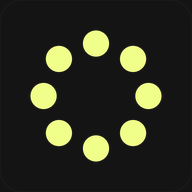
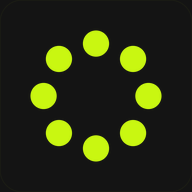
Primary colour #C9F711
Brand lime, logo, focus ring, accent text, launch error screen and app icons.

Claude-Session: https://claude.ai/code/session_01UHFjYRswX6nbSutuAFkTkP

diff --git a/index.html b/index.html
@@ -24,10 +24,10 @@
           var app = document.getElementById('app') || document.body;
           app.innerHTML =
             '<div style="position:absolute;inset:0;display:flex;flex-direction:column;justify-content:center;gap:16px;padding:24px;background:#141414;color:#d9d9d9;font:16px/24px system-ui,sans-serif">' +
-            '<strong style="font-size:22px;color:#f0ff8a">Nimble could not start</strong>' +
+            '<strong style="font-size:22px;color:#c9f711">Nimble could not start</strong>' +
             '<span>Close the app and open it again. If this keeps happening, send a screenshot of this screen.</span>' +
             '<pre style="margin:0;padding:12px;border-radius:12px;background:#202022;color:#8b8b8b;white-space:pre-wrap;font:13px/18px ui-monospace,Menlo,monospace"></pre>' +
-            '<button style="min-height:52px;border:0;border-radius:999px;background:#f0ff8a;color:#000;font-weight:800" onclick="location.reload()">Reload</button></div>';
+            '<button style="min-height:52px;border:0;border-radius:999px;background:#c9f711;color:#000;font-weight:800" onclick="location.reload()">Reload</button></div>';
           app.querySelector('pre').textContent = (first || 'The app did not start within 8 seconds.') + '\n' + navigator.userAgent;
         }, 8000);
       })();

diff --git a/src/design/tokens.css b/src/design/tokens.css
@@ -5,8 +5,8 @@
   --surface-control: #2a2a2d;
   --surface-card: #202022;
   --surface-raised: #353538;
-  --brand: #e6fc03;
-  --brand-yellow: #e6fc03;
+  --brand: #c9f711;
+  --brand-yellow: #c9f711;
   --brand-indigo: #442bee;
   --brand-beige: #fbeecb;
   --on-brand: #000000;
@@ -20,7 +20,7 @@
   --ink: #ffffff;
   --muted: #8e8e93;
   --faint: #5a5a5e;
-  --text-brand: #e6fc03;
+  --text-brand: #c9f711;
   --text-pink: #ff7a45;
   --text-blue: #4a9dff;
   --text-green: #5be37d;
@@ -31,8 +31,8 @@
   --field-bg: #2e2e31;
   --field-edge: #46464b;
   --card-edge: #00000000;
-  --edge-accent: #e6fc03;
-  --focus: #e6fc03;
+  --edge-accent: #c9f711;
+  --focus: #c9f711;
   --scrim: #000000cc;
   --glass: #202022d9;
   --warning: #ffb340;
